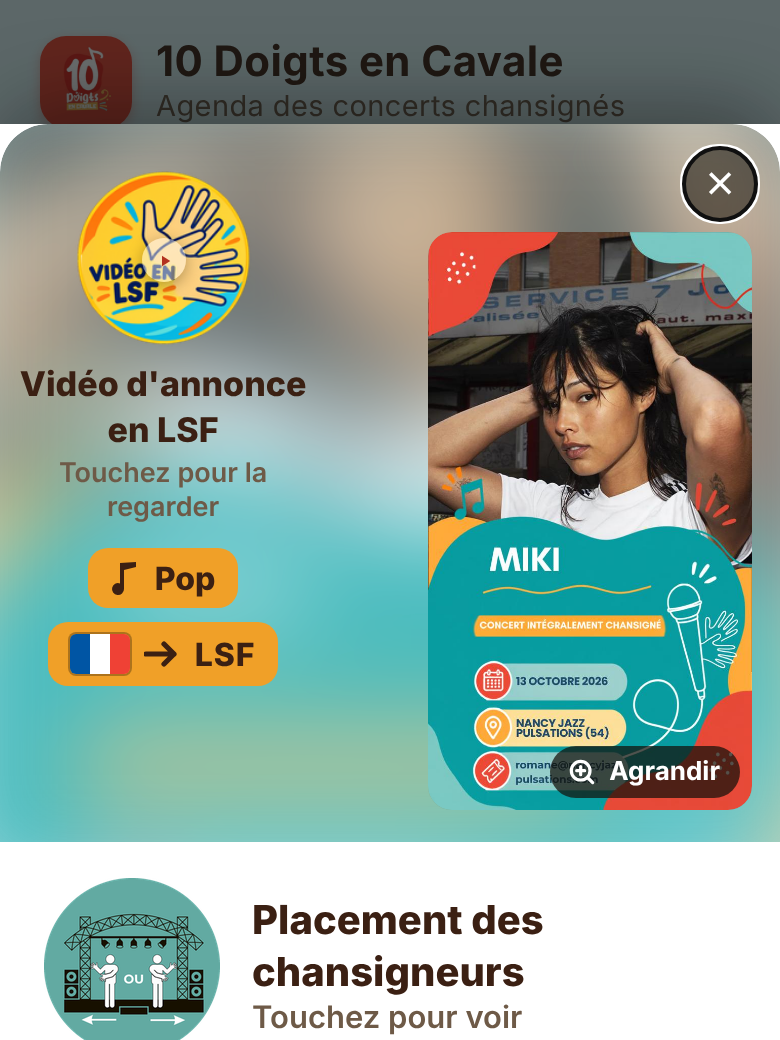
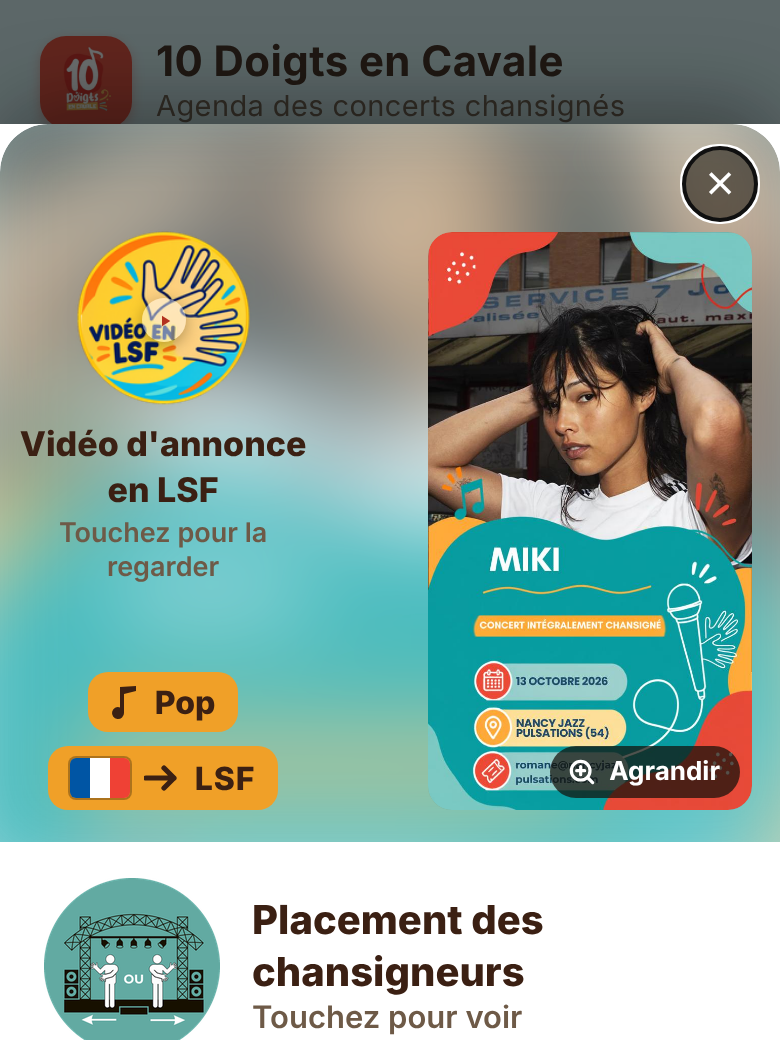
Add files via upload

Changed region(s): [[0.0308, 0.1538, 0.4, 0.8]]

diff --git a/index.html b/index.html
@@ -539,7 +539,11 @@ window.addEventListener("popstate", () => {
   .modal-hero.is-split .video-badge-label{text-align:center;font-size:17px;}
   .modal-hero.is-split .video-badge-label small{font-size:13.5px;margin-top:2px;}
   .modal-hero.is-split #modal-video-wrap{display:flex;flex-direction:column;align-items:center;}
-  .modal-hero.is-split #modal-hero-side{align-self:flex-start;margin-top:-30px;}
+  .modal-hero.is-split{align-items:stretch;}
+  .modal-hero.is-split #modal-hero-side{align-self:stretch;align-items:stretch;justify-content:flex-start;margin-top:0;}
+  .modal-hero.is-split #modal-image-wrap{align-items:flex-start;}
+  .modal-hero.is-split #modal-video-wrap{flex:1 1 auto;width:100%;justify-content:space-between;}
+  .modal-hero.is-split .info-chips{margin:18px 0 0;}
   .modal-body > #modal-video-wrap .video-badge-btn{padding-right:46px;}
   .info-chips{display:flex;flex-direction:column;align-items:center;gap:7px;margin:10px 0 12px;width:100%;}
   .modal-body > #modal-video-wrap .info-chips{flex-direction:row;flex-wrap:wrap;justify-content:center;}
